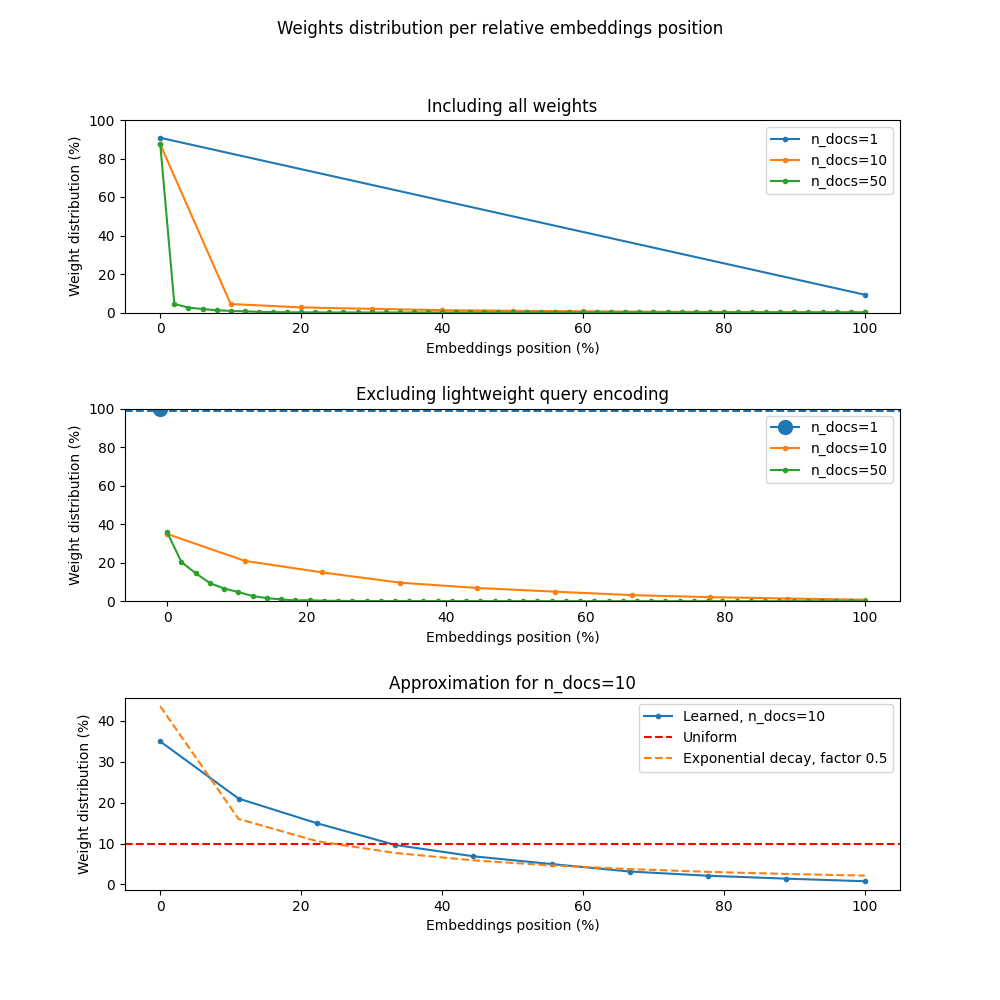
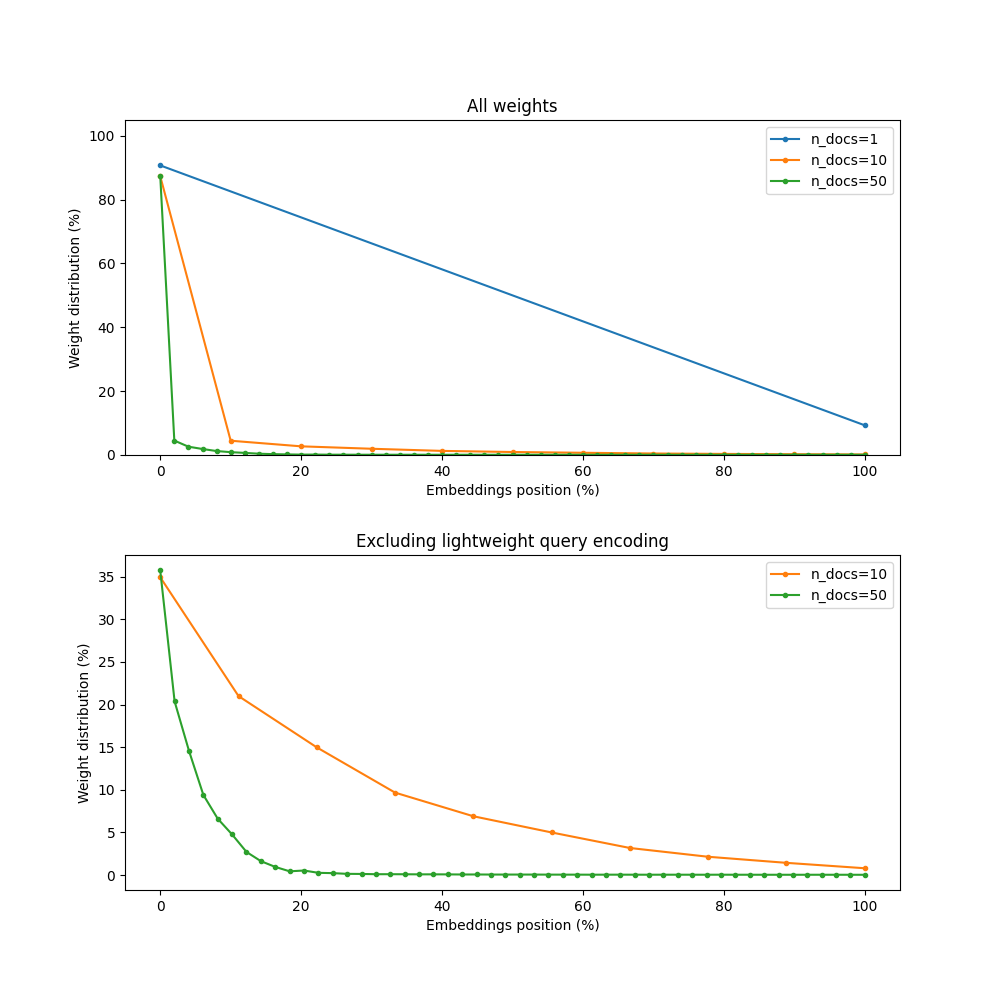
Add more plots

diff --git a/plot_data/weights_per_n_docs.py b/plot_data/weights_per_n_docs.py
@@ -20,19 +20,16 @@ def parse_args():
 
 
 def plot(data: Dict[str, Any]):
-    fig, (ax1, ax2, ax3) = plt.subplots(3, 1, figsize=(10, 10))
-    fig.suptitle('Weights distribution per relative embeddings position')
+    fig, (ax1, ax2) = plt.subplots(2, 1, figsize=(10, 10))
 
-    for ax in [ax1, ax2, ax3]:
+    for ax in [ax1, ax2]:
         ax.set_xlabel('Embeddings position (%)')
         ax.set_ylabel('Weight distribution (%)')
-        if ax != ax3:
-            ax.set_ylim(0, 100)
-    ax1.set_title('Including all weights')
+    ax1.set_title('All weights')
     ax2.set_title('Excluding lightweight query encoding')
-    ax3.set_title('Approximation for n_docs=10')
+    ax1.set_ylim(0, 105)
     
-    plt.subplots_adjust(hspace=0.5)
+    plt.subplots_adjust(hspace=0.3)
 
     # For each n_docs, plot the weights of the embeddings as a line plot with dots. The first element should be left and the last should be right.
     for i in range(len(data)):
@@ -59,36 +56,13 @@ def plot(data: Dict[str, Any]):
 
         # Highlight the dot of n_docs=1 more
         if n_docs == 1:
-            ax2.plot(x_values_ignored[0] - 1, weights_ignored[0], marker='o', markersize=10, label="n_docs=1")
-            ax2.axhline(y=weights_ignored[0] - 1, linestyle='--')
+            # ax2.plot(x_values_ignored[0], weights_ignored[0], marker='')
+            # ax2.axhline(y=weights_ignored[0], linestyle='-', label="n_docs=1")
+            pass
         else:
-            ax2.plot(x_values_ignored, weights_ignored, marker='.', label=f"n_docs={n_docs}")
+            ax2.plot(x_values_ignored, weights_ignored, marker='.', label=f"n_docs={n_docs}", color=f"C{(i % 9)}")
 
-        if n_docs == 10:
-            # Ignore the first element
-            weights_ignored = weights[1:]
-
-            # Normalize weights
-            weights_ignored = np.array(weights_ignored)
-            weights_ignored = weights_ignored / np.sum(weights_ignored) * 100
-
-            # Normalize x-axis values
-            x_values_ignored = np.linspace(0, 100, len(weights_ignored))
-
-            # Plot the weights as a line plot with dots
-            ax3.plot(x_values_ignored, weights_ignored, marker='.', label=f"Learned, n_docs={n_docs}")
-
-            # Add a horizontal line for uniform weight distribution
-            uniform_weight = 100 / len(weights_ignored)
-            ax3.axhline(y=uniform_weight, color='r', linestyle='--', label='Uniform')
-
-            # Add exponential weight distribution
-            exp_factor = 0.5
-            exponential_approximation = np.array([np.exp(-i**exp_factor) for i in range(len(weights_ignored))])
-            exponential_approximation = exponential_approximation / np.sum(exponential_approximation) * 100
-            ax3.plot(x_values_ignored, exponential_approximation, linestyle='--', label=f'Exponential decay, factor {exp_factor}')
-
-    for ax in [ax1, ax2, ax3]:
+    for ax in [ax1, ax2]:
         ax.legend()
 
     fig.savefig("plot_data/figures/weights_per_n_docs.png", transparent=True)

diff --git a/plot_data/weight_methods.py b/plot_data/weight_methods.py
@@ -1,0 +1,77 @@
+import argparse
+from typing import Any, Dict, List
+
+import numpy as np
+from matplotlib import pyplot as plt
+
+
+def parse_args():
+    """
+    Parse command-line arguments.
+
+    Returns:
+        argparse.Namespace: Parsed command-line arguments.
+
+    Arguments:
+        Run the script with --help or -h to see the full list of arguments.
+    """
+    parser = argparse.ArgumentParser()
+    return parser.parse_args()
+
+
+def plot(data: Dict[str, Any]):
+    fig, ax = plt.subplots(1, 1, figsize=(10, 10))
+
+    ax.set_xlabel('Embeddings position (%)')
+    ax.set_ylabel('Weight distribution (%)')
+    
+    # For each n_docs, plot the weights of the embeddings as a line plot with dots. The first element should be left and the last should be right.
+    for i in range(len(data)):
+        n_docs = data[i]["n_docs"]
+        weights = data[i]["weights"]
+
+        # Normalize weights
+        weights_normalized = np.array(weights)
+        weights_normalized = weights_normalized / np.sum(weights_normalized) * 100
+
+        # Normalize x-axis values
+        x_values = np.linspace(0, n_docs, len(weights_normalized))
+
+        # Ignore the first element and normalize
+        weights = np.array(weights[1:])
+        weights = weights / np.sum(weights) * 100
+        x_values_ignored = np.linspace(0, 10, len(weights))
+
+        # Plot the weights as a line plot with dots
+        ax.plot(x_values_ignored, weights, marker='.', label=f"Learned")
+
+        # Add a horizontal line for uniform weight distribution
+        uniform_weight = 100 / len(weights)
+        ax.axhline(y=uniform_weight, color='r', linestyle='--', label='Uniform')
+
+        # Add exponential weight distribution
+        exp_factor = 0.4
+        exponential_approximation = np.array([np.exp(-i**exp_factor) for i in range(len(weights))])
+        exponential_approximation = exponential_approximation / np.sum(exponential_approximation) * 100
+        ax.plot(x_values_ignored, exponential_approximation, linestyle='--', label=f'Exponential decay (-x$^{{{exp_factor}}}$)')
+
+    ax.legend()
+
+    fig.savefig("plot_data/figures/weight_methods.png", transparent=True)
+    plt.show()
+
+
+def main(args: argparse.Namespace) -> None:
+    data = [
+        {
+            "n_docs": 10,
+            "weights": [0.8738, 0.0441, 0.0265, 0.0189, 0.0122, 0.0087, 0.0063, 0.0040, 0.0027, 0.0018, 0.0010],
+        },
+    ]
+
+    plot(data)
+
+
+if __name__ == "__main__":
+    args = parse_args()
+    main(args)
